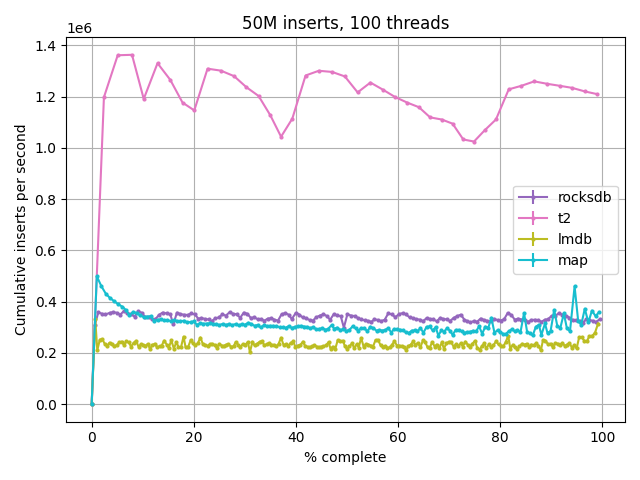
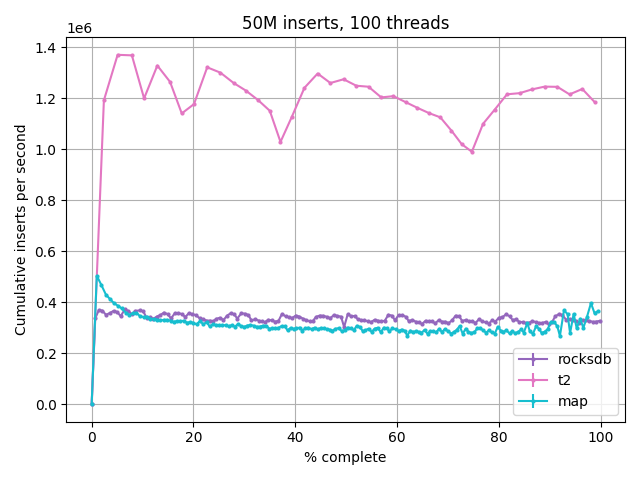
benchmarks: remove lmdb results.
l_lookup() does not look right.

diff --git a/README.md b/README.md
@@ -39,7 +39,7 @@ Benchmarks
 ----------
 
 The plots below are made by `./benchmarks` script, which runs a "typical" set of
-workloads against t2, lmdb and rocksdb (additionally C++ `std::map` is used in some
+workloads against t2 and rocksdb (additionally C++ `std::map` is used in some
 cases). Warning: the script takes a lot of time (a few hours) to complete, in
 part because it, by default, it repeats each experiment 5 times (see `nr` variable).
 
